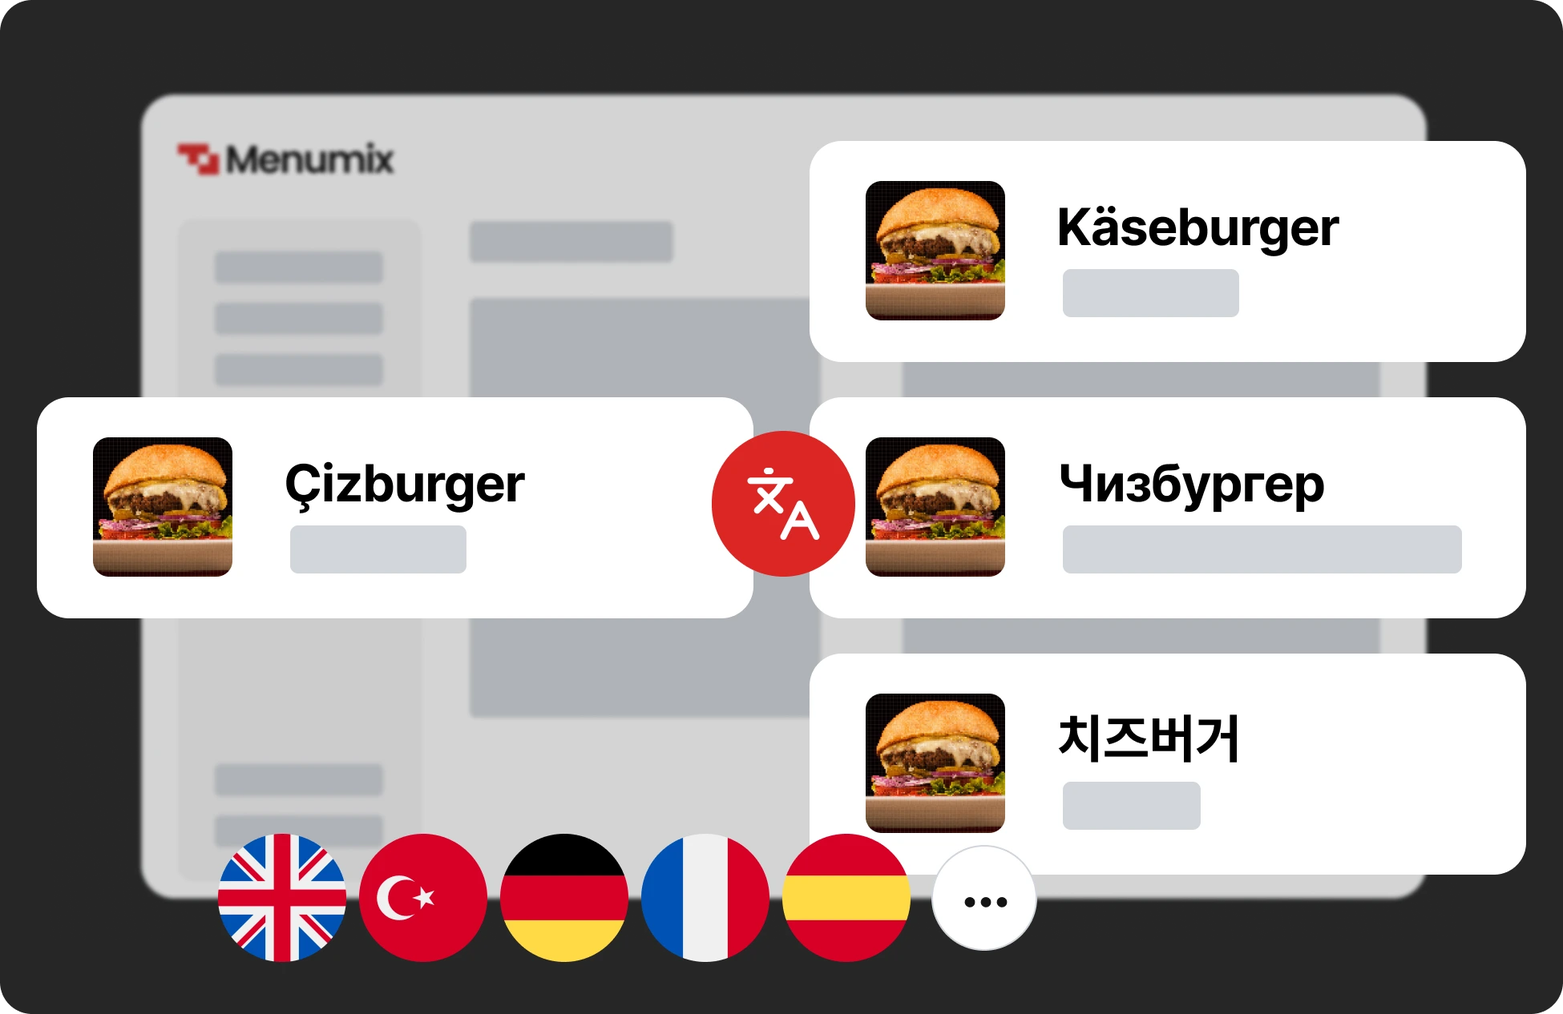
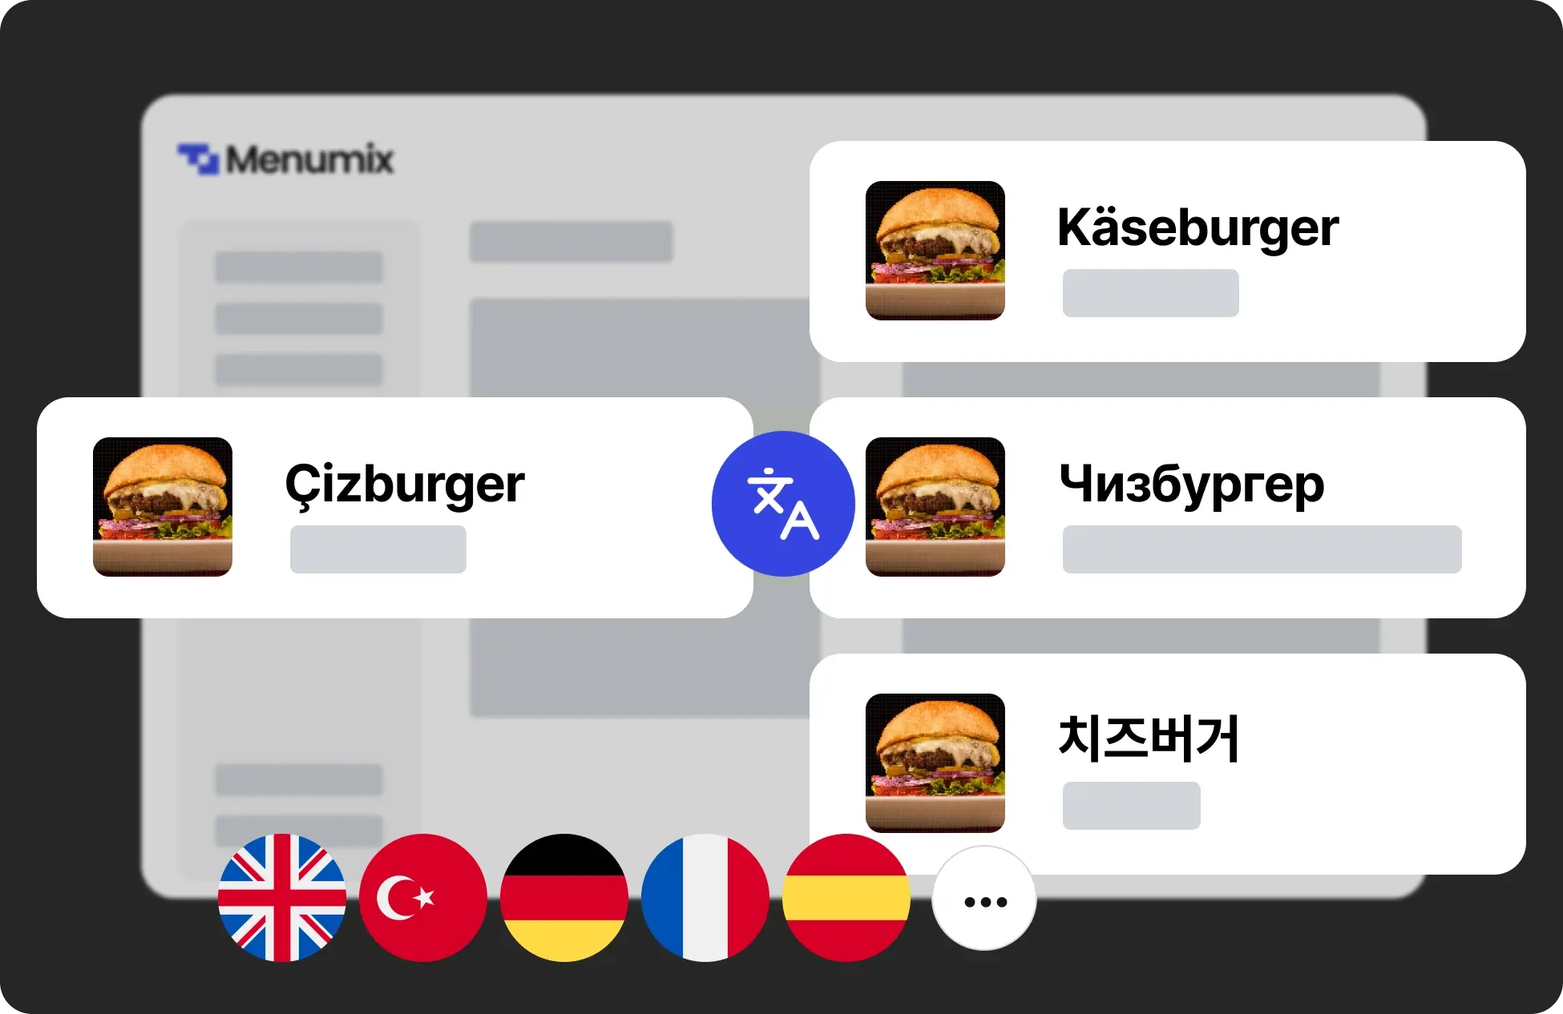
update brand color to indigo

Changed region(s): [[0.4308, 0.4005, 0.5538, 0.5853], [0.0923, 0.1232, 0.1538, 0.1848]]

diff --git a/layouts/partials/pricing.html b/layouts/partials/pricing.html
@@ -1,7 +1,7 @@
 <section class="bg-neutral-900" id="pricing">
   <div class="py-8 px-4 mx-auto max-w-screen-xl lg:py-16 lg:px-6">
     <div class="mx-auto max-w-screen-md text-center mb-8 lg:mb-12">
-      <h1 class="mb-4 text-1xl tracking-tight font-bold text-red-500">{{ i18n "pricing_subtitle" }}</h1>
+      <h1 class="mb-4 text-1xl tracking-tight font-bold text-indigo-500">{{ i18n "pricing_subtitle" }}</h1>
       <h2 class="mb-4 text-5xl tracking-tight font-bold text-white">{{ i18n "pricing_title" }}</h2>
       <p class="mb-5 font-light text-neutral-500 sm:text-xl">{{ i18n "pricing_description" }}</p>
     </div>
@@ -16,35 +16,35 @@
         <!-- List -->
         <ul role="list" class="mb-8 space-y-4 text-left">
           <li class="flex items-start space-x-3">
-            <svg class="flex-shrink-0 w-5 h-5 text-red-500" xmlns="http://www.w3.org/2000/svg" width="24" height="24" viewBox="0 0 24 24" fill="none" stroke="currentColor" stroke-width="2" stroke-linecap="round" stroke-linejoin="round" class="lucide lucide-circle-check-icon lucide-circle-check">
+            <svg class="flex-shrink-0 w-5 h-5 text-indigo-500" xmlns="http://www.w3.org/2000/svg" width="24" height="24" viewBox="0 0 24 24" fill="none" stroke="currentColor" stroke-width="2" stroke-linecap="round" stroke-linejoin="round" class="lucide lucide-circle-check-icon lucide-circle-check">
               <circle cx="12" cy="12" r="10"/>
               <path d="m9 12 2 2 4-4"/>
             </svg>
             <span>{{ i18n "pricing_feature_1" }}</span>
           </li>
           <li class="flex items-start space-x-3">
-            <svg class="flex-shrink-0 w-5 h-5 text-red-500" xmlns="http://www.w3.org/2000/svg" width="24" height="24" viewBox="0 0 24 24" fill="none" stroke="currentColor" stroke-width="2" stroke-linecap="round" stroke-linejoin="round" class="lucide lucide-circle-check-icon lucide-circle-check">
+            <svg class="flex-shrink-0 w-5 h-5 text-indigo-500" xmlns="http://www.w3.org/2000/svg" width="24" height="24" viewBox="0 0 24 24" fill="none" stroke="currentColor" stroke-width="2" stroke-linecap="round" stroke-linejoin="round" class="lucide lucide-circle-check-icon lucide-circle-check">
               <circle cx="12" cy="12" r="10"/>
               <path d="m9 12 2 2 4-4"/>
             </svg>
             <span>{{ i18n "pricing_feature_2" }}</span>
           </li>
           <li class="flex items-start space-x-3">
-            <svg class="flex-shrink-0 w-5 h-5 text-red-500" xmlns="http://www.w3.org/2000/svg" width="24" height="24" viewBox="0 0 24 24" fill="none" stroke="currentColor" stroke-width="2" stroke-linecap="round" stroke-linejoin="round" class="lucide lucide-circle-check-icon lucide-circle-check">
+            <svg class="flex-shrink-0 w-5 h-5 text-indigo-500" xmlns="http://www.w3.org/2000/svg" width="24" height="24" viewBox="0 0 24 24" fill="none" stroke="currentColor" stroke-width="2" stroke-linecap="round" stroke-linejoin="round" class="lucide lucide-circle-check-icon lucide-circle-check">
               <circle cx="12" cy="12" r="10"/>
               <path d="m9 12 2 2 4-4"/>
             </svg>
             <span>{{ i18n "pricing_feature_3" }}</span>
           </li>
           <li class="flex items-start space-x-3">
-            <svg class="flex-shrink-0 w-5 h-5 text-red-500" xmlns="http://www.w3.org/2000/svg" width="24" height="24" viewBox="0 0 24 24" fill="none" stroke="currentColor" stroke-width="2" stroke-linecap="round" stroke-linejoin="round" class="lucide lucide-circle-check-icon lucide-circle-check">
+            <svg class="flex-shrink-0 w-5 h-5 text-indigo-500" xmlns="http://www.w3.org/2000/svg" width="24" height="24" viewBox="0 0 24 24" fill="none" stroke="currentColor" stroke-width="2" stroke-linecap="round" stroke-linejoin="round" class="lucide lucide-circle-check-icon lucide-circle-check">
               <circle cx="12" cy="12" r="10"/>
               <path d="m9 12 2 2 4-4"/>
             </svg>
             <span>{{ i18n "pricing_feature_4" }}</span>
           </li>
           <li class="flex items-start space-x-3">
-            <svg class="flex-shrink-0 w-5 h-5 text-red-500" xmlns="http://www.w3.org/2000/svg" width="24" height="24" viewBox="0 0 24 24" fill="none" stroke="currentColor" stroke-width="2" stroke-linecap="round" stroke-linejoin="round" class="lucide lucide-circle-check-icon lucide-circle-check">
+            <svg class="flex-shrink-0 w-5 h-5 text-indigo-500" xmlns="http://www.w3.org/2000/svg" width="24" height="24" viewBox="0 0 24 24" fill="none" stroke="currentColor" stroke-width="2" stroke-linecap="round" stroke-linejoin="round" class="lucide lucide-circle-check-icon lucide-circle-check">
               <circle cx="12" cy="12" r="10"/>
               <path d="m9 12 2 2 4-4"/>
             </svg>
@@ -52,14 +52,14 @@
           </li>
         </ul>
       </div>
-      <div class="flex flex-col p-6 mx-auto w-full bg-linear-to-t from-red-600 to-red-500 text-neutral-900 rounded-lg xl:p-8">
+      <div class="flex flex-col p-6 mx-auto w-full bg-linear-to-t from-indigo-600 to-indigo-500 text-neutral-900 rounded-lg xl:p-8">
         <h3 class="mb-4 text-2xl font-semibold text-white">{{ i18n "pricing_pro_title" }}</h3>
-        <p class="font-light text-red-300 sm:text-lg">{{ i18n "pricing_pro_description" }}</p>
+        <p class="font-light text-indigo-300 sm:text-lg">{{ i18n "pricing_pro_description" }}</p>
         <div class="my-8">
           <span class="mr-2 text-2xl text-neutral-900 line-through">{{ i18n "pricing_pro_price_discount" }}</span>
           <div class="flex justify-start items-baseline-last">
             <span class="mr-2 text-4xl font-bold text-white">{{ i18n "pricing_pro_price" }}</span>
-            <span class="mr-2 text-xl text-red-300">/{{ i18n "pricing_pro_month" }}</span>
+            <span class="mr-2 text-xl text-indigo-300">/{{ i18n "pricing_pro_month" }}</span>
           </div>
         </div>
         <!-- List -->
@@ -69,49 +69,49 @@
               <circle cx="12" cy="12" r="10"/>
               <path d="m9 12 2 2 4-4"/>
             </svg>
-            <span class="text-red-200">{{ i18n "pricing_feature_6" }}</span>
+            <span class="text-indigo-200">{{ i18n "pricing_feature_6" }}</span>
           </li>
           <li class="flex items-start space-x-3">
             <svg class="flex-shrink-0 w-5 h-5 text-white" xmlns="http://www.w3.org/2000/svg" width="24" height="24" viewBox="0 0 24 24" fill="none" stroke="currentColor" stroke-width="2" stroke-linecap="round" stroke-linejoin="round" class="lucide lucide-circle-check-icon lucide-circle-check">
               <circle cx="12" cy="12" r="10"/>
               <path d="m9 12 2 2 4-4"/>
             </svg>
-            <span class="text-red-200">{{ i18n "pricing_feature_7" }}</span>
+            <span class="text-indigo-200">{{ i18n "pricing_feature_7" }}</span>
           </li>
           <li class="flex items-start space-x-3">
             <svg class="flex-shrink-0 w-5 h-5 text-white" xmlns="http://www.w3.org/2000/svg" width="24" height="24" viewBox="0 0 24 24" fill="none" stroke="currentColor" stroke-width="2" stroke-linecap="round" stroke-linejoin="round" class="lucide lucide-circle-check-icon lucide-circle-check">
               <circle cx="12" cy="12" r="10"/>
               <path d="m9 12 2 2 4-4"/>
             </svg>
-            <span class="text-red-200">{{ i18n "pricing_feature_8" }}</span>
+            <span class="text-indigo-200">{{ i18n "pricing_feature_8" }}</span>
           </li>
           <li class="flex items-start space-x-3">
             <svg class="flex-shrink-0 w-5 h-5 text-white" xmlns="http://www.w3.org/2000/svg" width="24" height="24" viewBox="0 0 24 24" fill="none" stroke="currentColor" stroke-width="2" stroke-linecap="round" stroke-linejoin="round" class="lucide lucide-circle-check-icon lucide-circle-check">
               <circle cx="12" cy="12" r="10"/>
               <path d="m9 12 2 2 4-4"/>
             </svg>
-            <span class="text-red-200">{{ i18n "pricing_feature_9" }}</span>
+            <span class="text-indigo-200">{{ i18n "pricing_feature_9" }}</span>
           </li>
           <li class="flex items-start space-x-3">
             <svg class="flex-shrink-0 w-5 h-5 text-white" xmlns="http://www.w3.org/2000/svg" width="24" height="24" viewBox="0 0 24 24" fill="none" stroke="currentColor" stroke-width="2" stroke-linecap="round" stroke-linejoin="round" class="lucide lucide-circle-check-icon lucide-circle-check">
               <circle cx="12" cy="12" r="10"/>
               <path d="m9 12 2 2 4-4"/>
             </svg>
-            <span class="text-red-200">{{ i18n "pricing_feature_10" }}</span>
+            <span class="text-indigo-200">{{ i18n "pricing_feature_10" }}</span>
           </li>
           <li class="flex items-start space-x-3">
             <svg class="flex-shrink-0 w-5 h-5 text-white" xmlns="http://www.w3.org/2000/svg" width="24" height="24" viewBox="0 0 24 24" fill="none" stroke="currentColor" stroke-width="2" stroke-linecap="round" stroke-linejoin="round" class="lucide lucide-circle-check-icon lucide-circle-check">
               <circle cx="12" cy="12" r="10"/>
               <path d="m9 12 2 2 4-4"/>
             </svg>
-            <span class="text-red-200">{{ i18n "pricing_feature_11" }}</span>
+            <span class="text-indigo-200">{{ i18n "pricing_feature_11" }}</span>
           </li>
           <li class="flex items-start space-x-3">
             <svg class="flex-shrink-0 w-5 h-5 text-white" xmlns="http://www.w3.org/2000/svg" width="24" height="24" viewBox="0 0 24 24" fill="none" stroke="currentColor" stroke-width="2" stroke-linecap="round" stroke-linejoin="round" class="lucide lucide-circle-check-icon lucide-circle-check">
               <circle cx="12" cy="12" r="10"/>
               <path d="m9 12 2 2 4-4"/>
             </svg>
-            <span class="text-red-200">{{ i18n "pricing_feature_all" }}</span>
+            <span class="text-indigo-200">{{ i18n "pricing_feature_all" }}</span>
           </li>
         </ul>
       </div>

diff --git a/layouts/partials/features.html b/layouts/partials/features.html
@@ -1,14 +1,14 @@
 <section class="bg-neutral-900" id="features">
   <div class="py-8 px-4 mx-auto max-w-screen-xl sm:py-16 lg:px-6">
     <div class="max-w-screen-md mb-8 lg:mb-16">
-      <h1 class="mb-2 text-md tracking-tight font-bold text-red-500">{{ i18n "features_subtitle" }}</h1>
+      <h1 class="mb-2 text-md tracking-tight font-bold text-indigo-500">{{ i18n "features_subtitle" }}</h1>
       <h2 class="mb-4 text-4xl tracking-tight font-bold text-white">{{ i18n "features_title" }}</h2>
       <p class="sm:text-xl text-neutral-400">{{ i18n "features_description" }}</p>
     </div>
     <div class="space-y-8 md:grid md:grid-cols-2 lg:grid-cols-3 md:gap-12 md:space-y-0">
       <div class="bg-neutral-800 p-6 rounded-lg">
-        <div class="flex justify-center items-center mb-4 w-10 h-10 rounded-full bg-red-500 lg:h-12 lg:w-12">
-          <svg class="w-5 h-5 lg:w-6 lg:h-6 text-red-200" fill="currentColor" viewBox="0 0 20 20">
+        <div class="flex justify-center items-center mb-4 w-10 h-10 rounded-full bg-indigo-500 lg:h-12 lg:w-12">
+          <svg class="w-5 h-5 lg:w-6 lg:h-6 text-indigo-200" fill="currentColor" viewBox="0 0 20 20">
             <path fill-rule="evenodd" d="M3 3a1 1 0 000 2v8a2 2 0 002 2h2.586l-1.293 1.293a1 1 0 101.414 1.414L10 15.414l2.293 2.293a1 1 0 001.414-1.414L12.414 15H15a2 2 0 002-2V5a1 1 0 100-2H3z" clip-rule="evenodd"></path>
           </svg>
         </div>
@@ -16,8 +16,8 @@
         <p class="text-neutral-400">{{ i18n "feature_1_description" }}</p>
       </div>
       <div class="bg-neutral-800 p-6 rounded-lg">
-        <div class="flex justify-center items-center mb-4 w-10 h-10 rounded-full bg-red-500 lg:h-12 lg:w-12">
-          <svg class="w-5 h-5 lg:w-6 lg:h-6 text-red-200" fill="currentColor" viewBox="0 0 20 20">
+        <div class="flex justify-center items-center mb-4 w-10 h-10 rounded-full bg-indigo-500 lg:h-12 lg:w-12">
+          <svg class="w-5 h-5 lg:w-6 lg:h-6 text-indigo-200" fill="currentColor" viewBox="0 0 20 20">
             <path fill-rule="evenodd" d="M3 3a1 1 0 000 2v8a2 2 0 002 2h2.586l-1.293 1.293a1 1 0 101.414 1.414L10 15.414l2.293 2.293a1 1 0 001.414-1.414L12.414 15H15a2 2 0 002-2V5a1 1 0 100-2H3z" clip-rule="evenodd"></path>
           </svg>
         </div>
@@ -25,8 +25,8 @@
         <p class="text-neutral-400">{{ i18n "feature_2_description" }}</p>
       </div>
       <div class="bg-neutral-800 p-6 rounded-lg">
-        <div class="flex justify-center items-center mb-4 w-10 h-10 rounded-full bg-red-500 lg:h-12 lg:w-12">
-          <svg class="w-5 h-5 lg:w-6 lg:h-6 text-red-200" fill="currentColor" viewBox="0 0 20 20">
+        <div class="flex justify-center items-center mb-4 w-10 h-10 rounded-full bg-indigo-500 lg:h-12 lg:w-12">
+          <svg class="w-5 h-5 lg:w-6 lg:h-6 text-indigo-200" fill="currentColor" viewBox="0 0 20 20">
             <path fill-rule="evenodd" d="M3 3a1 1 0 000 2v8a2 2 0 002 2h2.586l-1.293 1.293a1 1 0 101.414 1.414L10 15.414l2.293 2.293a1 1 0 001.414-1.414L12.414 15H15a2 2 0 002-2V5a1 1 0 100-2H3z" clip-rule="evenodd"></path>
           </svg>
         </div>

diff --git a/layouts/partials/hero.html b/layouts/partials/hero.html
@@ -2,9 +2,9 @@
     <div class="flex flex-col max-w-screen-xl px-4 pt-8 mx-auto lg:gap-8 xl:gap-0 lg:py-16">
         <div class="mx-auto text-center py-8">
             <h1 class="max-w-3xl mb-1 text-5xl font-bold tracking-tight leading-none md:text-5xl lg:text-5xl xl:text-6xl">{{ i18n "hero_title" }}</h1>
-            <h1 class="max-w-3xl mb-4 text-4xl font-bold tracking-tight leading-none md:text-4xl xl:text-4xl text-red-600">{{ i18n "hero_subtitle" }}</h1>
+            <h1 class="max-w-3xl mb-4 text-4xl font-bold tracking-tight leading-none md:text-4xl xl:text-4xl text-indigo-600">{{ i18n "hero_subtitle" }}</h1>
             <p class="max-w-3xl my-6 font-light text-neutral-500 lg:mb-8 text-lg lg:text-xl">{{ i18n "hero_description" }}</p>
-            <a href="https://panel.menumix.app/register" class="inline-flex items-center justify-center px-5 py-3 mr-3 text-base font-medium text-center text-white rounded-lg bg-red-600 hover:bg-red-500 focus:ring-4 focus:ring-red-300">
+            <a href="https://panel.menumix.app/register" class="inline-flex items-center justify-center px-5 py-3 mr-3 text-base font-medium text-center text-white rounded-lg bg-indigo-600 hover:bg-indigo-500 focus:ring-4 focus:ring-indigo-300">
                 {{ i18n "hero_cta_button" }}
             </a>
             <a href="https://qr.menumix.app/m/leo-cafe?t=7AklBvyCZ9tIvI22x8e9" class="inline-flex items-center justify-center px-5 py-3 text-base font-medium text-center text-neutral-900 border border-neutral-300 rounded-lg hover:bg-neutral-100 focus:ring-4 focus:ring-neutral-100">

diff --git a/layouts/features/single.html b/layouts/features/single.html
@@ -36,10 +36,10 @@
   <div class="px-4 mx-auto max-w-screen-xl">
     <div class="flex flex-col md:flex-row items-center justify-between gap-8 mx-auto max-w-4xl">
       <div>
-        <span class="inline-flex items-center rounded-md bg-red-100 px-2 py-1 mb-2 text-xl font-medium text-red-700">{{ i18n "menu_features" }}</span>
+        <span class="inline-flex items-center rounded-md bg-indigo-100 px-2 py-1 mb-2 text-xl font-medium text-indigo-700">{{ i18n "menu_features" }}</span>
         <h1 class="text-black max-w-4xl mb-1 text-4xl font-bold tracking-tight leading-none md:text-4xl lg:text-5xl xl:text-5xl">{{ .Title }}</h1>
         <p class="max-w-3xl my-6 text-neutral-700 lg:mb-8 text-lg lg:text-xl">{{ .Description }}</p>
-        <a href="https://panel.menumix.app/register" class="inline-flex items-center justify-center px-5 py-3 mr-3 text-base font-medium text-center text-white rounded-lg bg-red-600 hover:bg-red-500 focus:ring-4 focus:ring-red-300">
+        <a href="https://panel.menumix.app/register" class="inline-flex items-center justify-center px-5 py-3 mr-3 text-base font-medium text-center text-white rounded-lg bg-indigo-600 hover:bg-indigo-500 focus:ring-4 focus:ring-indigo-300">
             {{ i18n "hero_cta_button" }}
         </a>
       </div>

diff --git a/layouts/partials/header.html b/layouts/partials/header.html
@@ -33,7 +33,7 @@
                     text-left
                     text-neutral-700
                     border-b border-neutral-100
-                    hover:text-red-500 
+                    hover:text-indigo-500 
                     cursor-pointer
                     lg:hover:bg-transparent
                     lg:border-0
@@ -65,7 +65,7 @@
                     text-neutral-700
                     border-b border-neutral-100
                     hover:bg-neutral-50 
-                    hover:text-red-500
+                    hover:text-indigo-500
                     lg:p-0
                     lg:hover:bg-transparent
                     lg:border-0"
@@ -78,7 +78,7 @@
           {{ end }}
         </ul>
         <a href="https://panel.menumix.app/login"
-          class="flex md:hidden items-center justify-center px-4 lg:px-5 py-2 lg:py-2 mr-2 text-md font-medium bg-red-600 text-white rounded-lg hover:bg-red-500 focus:ring-4 focus:ring-neutral-100">{{ i18n "header_login" }}
+          class="flex md:hidden items-center justify-center px-4 lg:px-5 py-2 lg:py-2 mr-2 text-md font-medium bg-indigo-600 text-white rounded-lg hover:bg-indigo-500 focus:ring-4 focus:ring-neutral-100">{{ i18n "header_login" }}
         </a>
       </div>
     </div>

diff --git a/layouts/404.html b/layouts/404.html
@@ -2,10 +2,10 @@
 <section class="bg-white">
     <div class="py-8 px-4 mx-auto max-w-screen-xl lg:py-16 lg:px-6">
         <div class="mx-auto max-w-screen-sm text-center">
-            <h1 class="mb-4 text-7xl tracking-tight font-extrabold lg:text-9xl text-red-600">404</h1>
+            <h1 class="mb-4 text-7xl tracking-tight font-extrabold lg:text-9xl text-indigo-600">404</h1>
             <p class="mb-4 text-3xl tracking-tight font-bold text-neutral-900 md:text-4xl">Something's missing.</p>
             <p class="mb-4 text-lg font-light text-neutral-500">Sorry, we can't find that page. You'll find lots to explore on the home page. </p>
-            <a href="#" class="inline-flex text-white bg-red-600 hover:bg-red-800 focus:ring-4 focus:outline-none focus:ring-red-300 font-medium rounded-lg text-sm px-5 py-2.5 text-center my-4">Back to Homepage</a>
+            <a href="#" class="inline-flex text-white bg-indigo-600 hover:bg-indigo-800 focus:ring-4 focus:outline-none focus:ring-indigo-300 font-medium rounded-lg text-sm px-5 py-2.5 text-center my-4">Back to Homepage</a>
         </div>   
     </div>
 </section>

diff --git a/layouts/partials/faq.html b/layouts/partials/faq.html
@@ -1,13 +1,13 @@
 <section id="faq">
   <div class="py-8 px-4 mx-auto max-w-screen-xl sm:py-16 lg:px-6">
     <div class="text-center mb-12">
-      <h4 class="text-1xl tracking-tight font-bold text-red-500">{{ i18n "faq_subtitle" }}</h4>
+      <h4 class="text-1xl tracking-tight font-bold text-indigo-500">{{ i18n "faq_subtitle" }}</h4>
       <h2 class="mb-8 text-5xl tracking-tight font-bold text-neutral-900">{{ i18n "faq_title" }}</h2>
     </div>
     <div class="max-w-3xl mx-auto">
       {{ range seq 1 6 }}
       <details class="mb-4 group">
-        <summary class="flex items-center justify-between cursor-pointer text-xl font-medium text-neutral-900 hover:text-red-500 transition-colors">
+        <summary class="flex items-center justify-between cursor-pointer text-xl font-medium text-neutral-900 hover:text-indigo-500 transition-colors">
           <span class="flex items-center my-2">
             {{ i18n (print "faq_" . "_q") }}
           </span>

diff --git a/layouts/partials/footer.html b/layouts/partials/footer.html
@@ -4,7 +4,7 @@
             <div class="md:max-w-lg">
                 <h1 class="text-white max-w-4xl mb-1 text-4xl font-bold tracking-tight leading-none md:text-3xl lg:text-4xl xl:text-4xl">{{ i18n "hero_title" }}</h1>
                 <p class="max-w-3xl my-6 font-light text-neutral-300 lg:mb-8 text-lg lg:text-xl">{{ i18n "hero_description" }}</p>
-                <a href="https://panel.menumix.app/register" class="inline-flex items-center justify-center px-5 py-3 mr-3 text-base font-medium text-center text-white rounded-lg bg-red-600 hover:bg-red-500 focus:ring-4 focus:ring-red-300">
+                <a href="https://panel.menumix.app/register" class="inline-flex items-center justify-center px-5 py-3 mr-3 text-base font-medium text-center text-white rounded-lg bg-indigo-600 hover:bg-indigo-500 focus:ring-4 focus:ring-indigo-300">
                     {{ i18n "hero_cta_button" }}
                 </a>
             </div>

diff --git a/layouts/blog/list.html b/layouts/blog/list.html
@@ -21,7 +21,7 @@
                 </div>
                 <h2 class="mb-2 text-2xl font-bold tracking-tight text-neutral-900"><a href="{{ .Permalink }}">{{ .Title }}</a></h2>
                 <div class="flex justify-between items-center">
-                    <a href="{{ .Permalink }}" class="inline-flex items-center font-medium text-red-600 hover:underline">
+                    <a href="{{ .Permalink }}" class="inline-flex items-center font-medium text-indigo-600 hover:underline">
                         Read more
                         <svg class="ml-2 w-4 h-4" fill="currentColor" viewBox="0 0 20 20" xmlns="http://www.w3.org/2000/svg"><path fill-rule="evenodd" d="M10.293 3.293a1 1 0 011.414 0l6 6a1 1 0 010 1.414l-6 6a1 1 0 01-1.414-1.414L14.586 11H3a1 1 0 110-2h11.586l-4.293-4.293a1 1 0 010-1.414z" clip-rule="evenodd"></path></svg>
                     </a>

diff --git a/layouts/legal/list.html b/layouts/legal/list.html
@@ -10,7 +10,7 @@
                 </div>
                 <h2 class="mb-2 text-2xl font-bold tracking-tight text-neutral-900"><a href="{{ .Permalink }}">{{ .Title }}</a></h2>
                 <div class="flex justify-between items-center">
-                    <a href="{{ .Permalink }}" class="inline-flex items-center font-medium text-red-600 hover:underline">
+                    <a href="{{ .Permalink }}" class="inline-flex items-center font-medium text-indigo-600 hover:underline">
                         Read more
                         <svg class="ml-2 w-4 h-4" fill="currentColor" viewBox="0 0 20 20" xmlns="http://www.w3.org/2000/svg"><path fill-rule="evenodd" d="M10.293 3.293a1 1 0 011.414 0l6 6a1 1 0 010 1.414l-6 6a1 1 0 01-1.414-1.414L14.586 11H3a1 1 0 110-2h11.586l-4.293-4.293a1 1 0 010-1.414z" clip-rule="evenodd"></path></svg>
                     </a>

diff --git a/layouts/partials/posts.html b/layouts/partials/posts.html
@@ -17,7 +17,7 @@
                 </div>
                 <h2 class="mb-2 text-2xl font-bold tracking-tight text-neutral-900"><a href="{{ .Permalink }}">{{ .Title }}</a></h2>
                 <div class="flex justify-between items-center">
-                    <a href="{{ .Permalink }}" class="inline-flex items-center font-medium text-red-600 hover:underline">
+                    <a href="{{ .Permalink }}" class="inline-flex items-center font-medium text-indigo-600 hover:underline">
                         Read more
                         <svg class="ml-2 w-4 h-4" fill="currentColor" viewBox="0 0 20 20" xmlns="http://www.w3.org/2000/svg"><path fill-rule="evenodd" d="M10.293 3.293a1 1 0 011.414 0l6 6a1 1 0 010 1.414l-6 6a1 1 0 01-1.414-1.414L14.586 11H3a1 1 0 110-2h11.586l-4.293-4.293a1 1 0 010-1.414z" clip-rule="evenodd"></path></svg>
                     </a>

diff --git a/layouts/partials/highlight4.html b/layouts/partials/highlight4.html
@@ -2,7 +2,7 @@
     <div class="gap-8 items-center py-8 px-4 mx-auto max-w-screen-xl xl:gap-16 flex flex-col md:grid md:grid-cols-2 sm:py-16 lg:px-6">
         <img class="order-2 md:order-1 w-full" src="/images/kitchen_{{ .Site.Language.Lang }}.webp">
         <div class="order-1 md:order-2 mt-4 md:mt-0">
-            <h1 class="mb-2 text-lg tracking-tight font-bold text-red-500">{{ i18n "highlight_4_subtitle" }}</h1>
+            <h1 class="mb-2 text-lg tracking-tight font-bold text-indigo-500">{{ i18n "highlight_4_subtitle" }}</h1>
             <h2 class="mb-4 text-5xl tracking-tight font-bold text-neutral-900">
                 {{ i18n "highlight_4_title" }}
             </h2>
